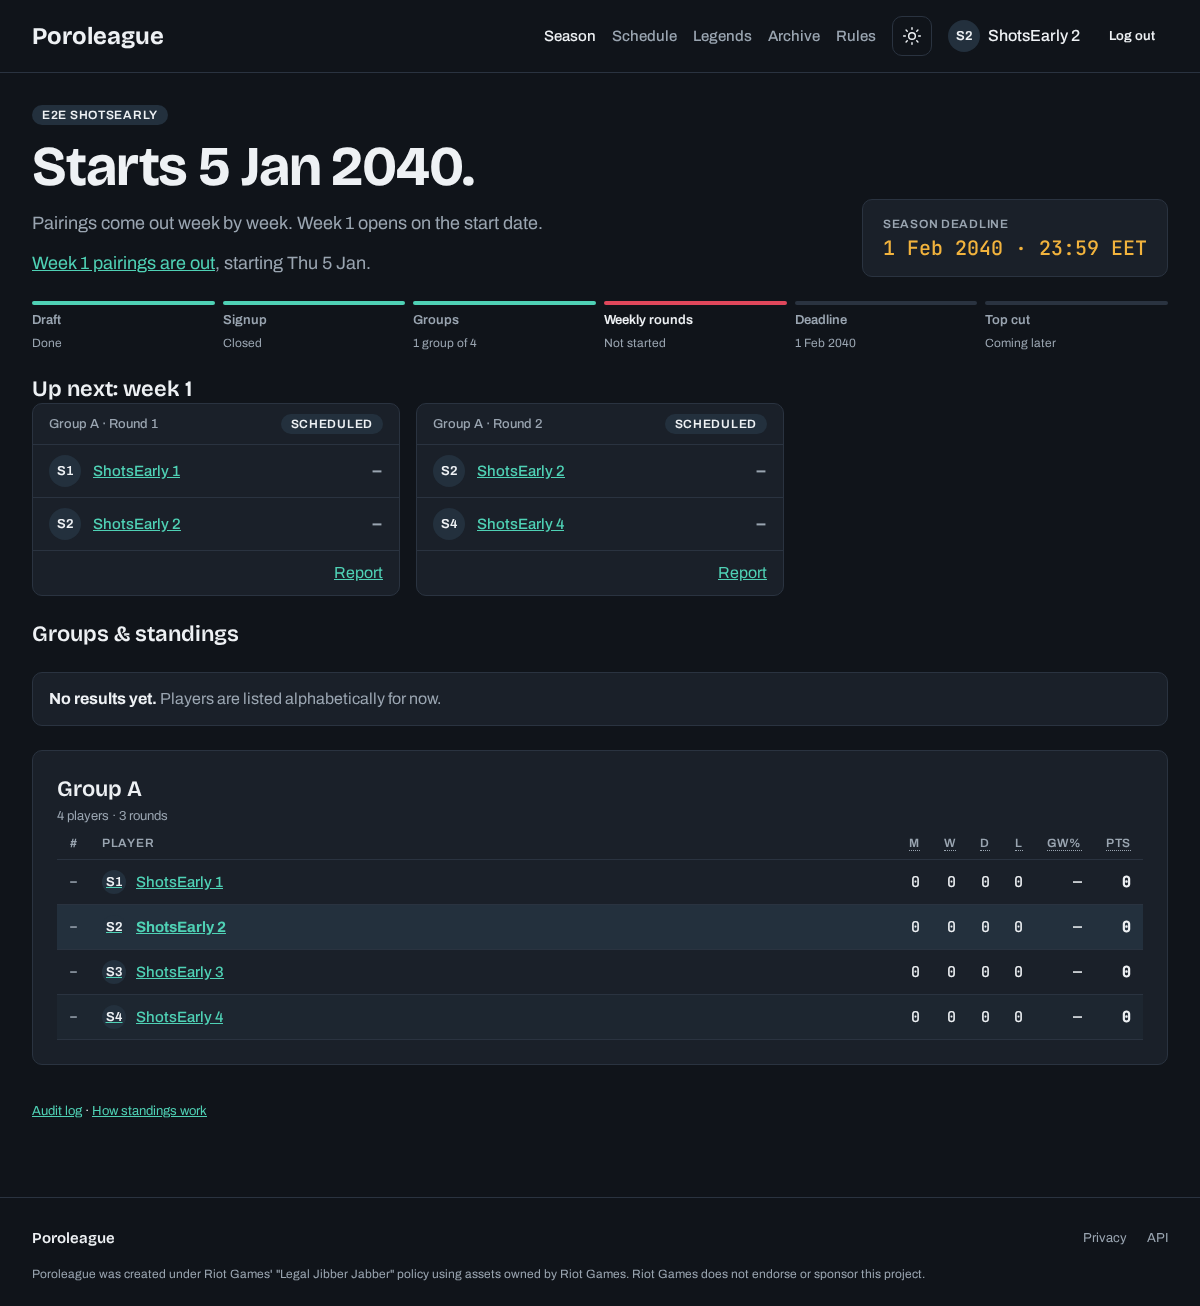
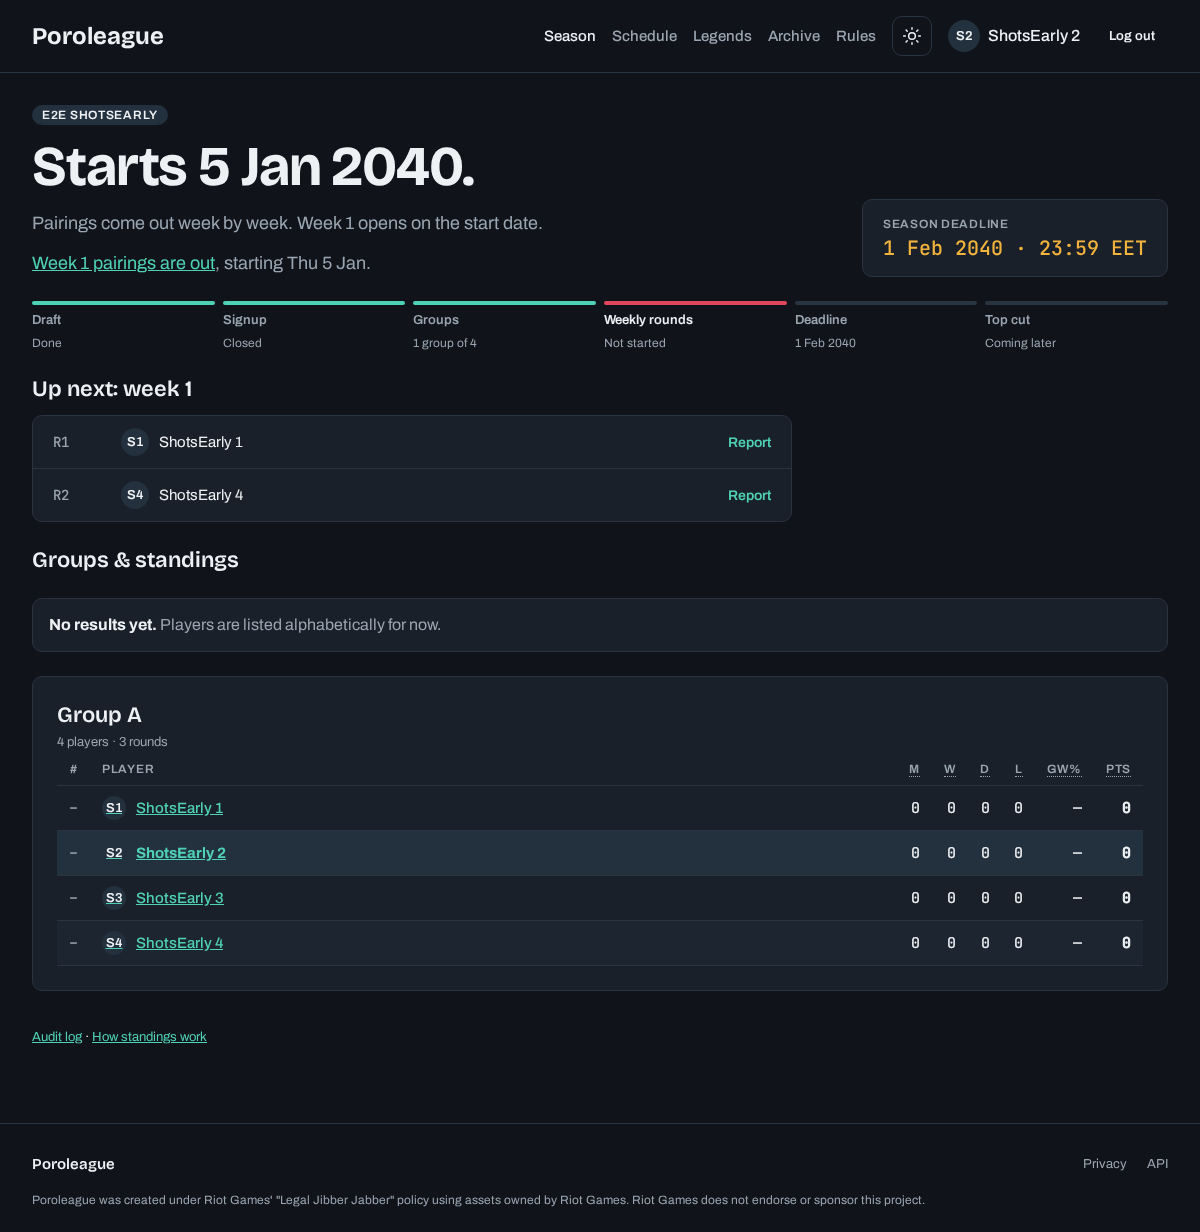
feat(season): match rows on the season page (#228)
## Review guide

~118 reviewable lines (+90/−28), of which ~45 are tests. Plus 6
regenerated images in `.shots/`.

Reading order:
1. `src/lib/league/bracket.ts` + `bracket.spec.ts`: `shortMatchName()`
for the row's round column
2. `src/lib/matchCard.ts` (+ spec): `Card.round` for playoff matches
uses the short name
3. `src/lib/components/MatchRows.svelte`: screen-reader full name for
playoff rounds
4. `src/routes/seasons/[slug]/+page.server.ts`, `+page.svelte`: the
three lists
5. `e2e/early-pairings.spec.ts`, `e2e/top-cut.spec.ts`,
`src/lib/matchRow.spec.ts`

## What

On the season page, "Your matches this week", "Up next: …" and "Your top
cut match" show `MatchRows` perspective rows (no column header) instead
of match-card grids. Hero, phase bar, notices, bye notes, empty states,
signup and standings are unchanged.

## Notes

- Playoff rows show a short round label: `SF 2`, `QF 1`, `Final`, and
`Ro16`/`Ro32` (no slot) for earlier rounds. The full bracket name
("Semifinal 2") would overflow the 52px round column. `Ro16` rather than
`R16` so it can't be read as group round 16. Screen readers get the full
name (`props.head`) instead. This changes `Card.round` for every playoff
card; only `povRow` reads it.
- `early-pairings.spec.ts` gains a regression test for the "as Annie ·
vs Ahri" spacing; the fix itself landed with #225.
- The three match sections are capped at 760px (`.narrow`) with 12px
between heading and list, so "Your page" lines up with the list's right
[…]

diff --git a/src/routes/seasons/[slug]/+page.svelte b/src/routes/seasons/[slug]/+page.svelte
@@ -3,7 +3,7 @@
 	import Avatar from '#lib/components/Avatar.svelte';
 	import ConfirmButton from '#lib/components/ConfirmButton.svelte';
 	import StandingsTable from '#lib/components/StandingsTable.svelte';
-	import MatchCard from '#lib/components/MatchCard.svelte';
+	import MatchRows from '#lib/components/MatchRows.svelte';
 	import PhaseBar from '#lib/components/PhaseBar.svelte';
 	import { date, day, tzName } from '#lib/format.ts';
 	import { groupName, signupInfo, STATUS_LABEL } from '#lib/season.ts';
@@ -17,7 +17,7 @@
 	const AVATARS = 12;
 	const info = $derived(signupInfo(data.entries.length, season));
 	const fresh = $derived(data.groups.every((g) => g.rows.every((r) => !r.played)));
-	// Every match of this week is reported; flagged, void or overdue ones keep the cards showing.
+	// Every match of this week is reported; flagged, void or overdue ones keep the rows showing.
 	const allDone = $derived(
 		!data.pending && data.myWeek.length > 0 && data.myWeek.every((c) => c.status === 'reported')
 	);
@@ -163,9 +163,16 @@
 	{/if}
 
 	{#if data.topCut?.myMatch}
-		<section>
+		<section class="matches narrow">
 			<div class="section-head"><h2>Your top cut match</h2></div>
-			<div class="cards"><MatchCard {...data.topCut.myMatch} /></div>
+			<div class="panel rows">
+				<MatchRows
+					cards={[data.topCut.myMatch]}
+					player={user?.id}
+					label="Your top cut match"
+					header={false}
+				/>
+			</div>
 		</section>
 	{/if}
 
@@ -179,7 +186,7 @@
 	{/if}
 
 	{#if data.signedUp && season.status === 'play' && data.week >= 1}
-		<section aria-labelledby="this-week">
+		<section class="matches narrow" aria-labelledby="this-week">
 			<div class="section-head">
 				<h2 id="this-week">Your matches this week</h2>
 				<a href="/seasons/{season.slug}/players/{user?.id}">Your page</a>
@@ -190,8 +197,13 @@
 					<a href="/seasons/{season.slug}/players/{user?.id}">See your results</a>
 				</div>
 			{:else if data.myWeek.length}
-				<div class="cards">
-					{#each data.myWeek as c (c.id)}<MatchCard {...c.props} />{/each}
+				<div class="panel rows">
+					<MatchRows
+						cards={data.myWeek}
+						player={user?.id}
+						label="Your matches this week"
+						header={false}
+					/>
 				</div>
 			{:else if data.pending}
 				<p class="empty">This week's pairings aren't out yet. Watch the pairings channel.</p>
@@ -203,13 +215,18 @@
 	{/if}
 
 	{#if data.ahead && (data.ahead.matches.length || data.ahead.byes.length)}
-		<section aria-labelledby="up-next">
+		<section class="matches narrow" aria-labelledby="up-next">
 			<div class="section-head">
 				<h2 id="up-next">Up next: {aheadText(data.ahead.weeks)}</h2>
 			</div>
 			{#if data.ahead.matches.length}
-				<div class="cards">
-					{#each data.ahead.matches as c (c.id)}<MatchCard {...c.props} />{/each}
+				<div class="panel rows">
+					<MatchRows
+						cards={data.ahead.matches}
+						player={user?.id}
+						label="Up next: {aheadText(data.ahead.weeks)}"
+						header={false}
+					/>
 				</div>
 			{/if}
 			{#if data.ahead.byes.length}{@render byeNote(data.ahead.byes)}{/if}
@@ -465,6 +482,15 @@
 	}
 	.section-head h2 {
 		margin: 0;
+	}
+	.matches {
+		display: flex;
+		flex-direction: column;
+		gap: 12px;
+	}
+	.rows {
+		padding: 0;
+		overflow: hidden;
 	}
 	.stat {
 		display: none;

diff --git a/e2e/early-pairings.spec.ts b/e2e/early-pairings.spec.ts
@@ -1,7 +1,7 @@
 // Pairings published before their week starts show up right away, without moving the calendar week.
 import { expect, test } from '@playwright/test';
-import { removeMatch, removeSeason, seedSeason } from './db.ts';
-import { SEASONS, as, player } from './fixtures.ts';
+import { removeMatch, removeSeason, seedResult, seedSeason } from './db.ts';
+import { SEASONS, as, player, playerName } from './fixtures.ts';
 
 const s = `/seasons/${SEASONS.early}`;
 const day = (offset: number) =>
@@ -18,12 +18,16 @@ test.describe('as a player', () => {
 	test('sees next week beside this week, on both pages', async ({ page }) => {
 		midSeason();
 		await page.goto(s);
-		const thisWeek = page.getByRole('region', { name: 'Your matches this week' });
-		await expect(thisWeek.getByText('Round 1')).toBeVisible();
-		await expect(thisWeek.getByText('Round 3')).toHaveCount(0);
-		const next = page.getByRole('region', { name: 'Up next: week 2' });
-		await expect(next.getByText('Round 3')).toBeVisible();
-		await expect(next.getByText('Round 1')).toHaveCount(0);
+		const thisWeek = page.getByRole('list', { name: 'Your matches this week' });
+		await expect(thisWeek.getByRole('link', { name: /^Round 1 / })).toBeVisible();
+		await expect(thisWeek.getByRole('link', { name: /^Round 3 / })).toHaveCount(0);
+		const next = page.getByRole('list', { name: 'Up next: week 2' });
+		const row = next.getByRole('link', { name: /^Round 3 / });
+		await expect(row).toContainText('R3');
+		await expect(row).toContainText(playerName('early', 3));
+		await expect(row).toContainText('Report');
+		await expect(row).toHaveAttribute('href', /\/matches\/\d+$/);
+		await expect(next.getByRole('link', { name: /^Round 1 / })).toHaveCount(0);
 
 		await page.goto(`${s}/players/${player('early', 2)}`);
 		const upNext = page.getByRole('region', { name: 'Who you play next' });
@@ -31,11 +35,22 @@ test.describe('as a player', () => {
 		await expect(upNext.getByText('Round 3')).toBeVisible();
 	});
 
+	test('sees a played match as a result row', async ({ page }) => {
+		seedResult(midSeason()[0], 2, 1); // Early 1 beat Early 2, Ahri vs Annie
+		await page.setViewportSize({ width: 390, height: 844 });
+		await page.goto(s);
+		const row = page
+			.getByRole('list', { name: 'Your matches this week' })
+			.getByRole('link', { name: /^Round 1 / });
+		await expect(row).toContainText('1–2');
+		await expect(row).toContainText('as Annie · vs Ahri');
+	});
+
 	test('sees week 1 before the season starts', async ({ page }) => {
 		seedSeason('early', { publishedRound: 2, startDate: day(3), deadline: day(30) });
 		await page.goto(s);
 		await expect(
-			page.getByRole('region', { name: 'Up next: week 1' }).getByText('Round 1')
+			page.getByRole('list', { name: 'Up next: week 1' }).getByRole('link', { name: /^Round 1 / })
 		).toBeVisible();
 		await expect(page.getByText('No matches for you this week.')).toHaveCount(0);
 	});

diff --git a/src/lib/matchCard.ts b/src/lib/matchCard.ts
@@ -3,7 +3,7 @@ import { droppedIds, isOverdue, isVoid } from '#lib/league/status.ts';
 import type { WeekMap } from '#lib/league/holiday.ts';
 import { isPublished } from '#lib/league/publish.ts';
 import { currentWeek, reportingClosed, weekOf } from '#lib/league/time.ts';
-import { matchName } from '#lib/league/bracket.ts';
+import { matchName, shortMatchName } from '#lib/league/bracket.ts';
 import { groupName } from '#lib/season.ts';
 
 export type CardMatch = {
@@ -136,8 +136,8 @@ export function matchCard(m: CardMatch, c: CardContext) {
 		ids: [m.p1Id, m.p2Id] as [string, string],
 		// Which side the viewer is, for the "You" tag.
 		you: (m.p1Id === c.viewerId ? 0 : m.p2Id === c.viewerId ? 1 : null) as 0 | 1 | null,
-		// Group rounds are numbers ("R6"); a playoff match carries its bracket name.
-		round: m.stage === 'playoff' ? matchName(m.round, m.slot ?? 0, c.cutRounds) : m.round,
+		// Group rounds are numbers ("R6"); a playoff match carries its short bracket name ("SF 2").
+		round: m.stage === 'playoff' ? shortMatchName(m.round, m.slot ?? 0, c.cutRounds) : m.round,
 		week,
 		early,
 		walkover,

diff --git a/src/routes/seasons/[slug]/+page.server.ts b/src/routes/seasons/[slug]/+page.server.ts
@@ -26,7 +26,7 @@ export const load: PageServerLoad = async (event) => {
 	const scheduled = hasSchedule(season.status);
 	const groups = scheduled ? groupStandings(season, list) : [];
 	const me = list.find((e) => e.playerId === locals.user?.id);
-	// Only a signed-up player gets match cards here, so only they need the holidays read.
+	// Only a signed-up player gets match rows here, so only they need the holidays read.
 	const marks = me && scheduled ? seasonUnlocks(season) : null;
 	const ctx = {
 		...cardContext(season, list, locals.user?.id ?? null),
@@ -76,7 +76,7 @@ export const load: PageServerLoad = async (event) => {
 						? matchCard(
 								myCut.match,
 								cardContext(season, list, viewer, new Date(), cut.rounds.length)
-							).props
+							)
 						: null
 				}
 			: null,

diff --git a/src/lib/league/bracket.ts b/src/lib/league/bracket.ts
@@ -129,6 +129,14 @@ export function matchName(round: number, slot: number, rounds: number) {
 	return `Round of ${n} · ${slot + 1}`;
 }
 
+// Fits a match row's round column. "Ro16", never "R16": that reads as group round 16.
+export function shortMatchName(round: number, slot: number, rounds: number) {
+	const n = left(round, rounds);
+	if (n === 2) return 'Final';
+	if (n === 4 || n === 8) return `${n === 4 ? 'SF' : 'QF'} ${slot + 1}`;
+	return `Ro${n}`;
+}
+
 // "A1" = 1st in Group A. Seeds run A1, B1, …, A2, B2, … so the place is the seed's tier.
 export const seedLabel = (seed: number, groups: number) =>
 	`${String.fromCharCode(65 + ((seed - 1) % groups))}${Math.ceil(seed / groups)}`;

diff --git a/e2e/top-cut.spec.ts b/e2e/top-cut.spec.ts
@@ -43,6 +43,12 @@ test('top cut from setup to champion', async ({ browser }) => {
 	// Player 1 reports their semifinal against Player 5 from the bracket.
 	const p1 = await browser.newPage(as(player('topCut', 1)));
 	await p1.goto(`/seasons/${slug}`);
+	const myCut = p1
+		.getByRole('list', { name: 'Your top cut match' })
+		.getByRole('link', { name: /^Semifinal 1 / });
+	await expect(myCut).toContainText('SF 1');
+	await expect(myCut).toContainText(playerName('topCut', 5));
+	await expect(myCut).toContainText('Report');
 	await mainNav(p1).getByRole('link', { name: 'Top cut' }).click();
 	await expect(p1.getByRole('heading', { name: 'Semifinals are up.' })).toBeVisible();
 	await p1

diff --git a/src/lib/league/bracket.spec.ts b/src/lib/league/bracket.spec.ts
@@ -6,6 +6,7 @@ import {
 	drawBracket,
 	MAX_CUT,
 	matchName,
+	shortMatchName,
 	roundName,
 	seedLabel,
 	seedOrder,
@@ -113,6 +114,10 @@ describe('names', () => {
 		expect(matchName(2, 1, 4)).toBe('Quarterfinal 2');
 		expect(matchName(1, 2, 4)).toBe('Round of 16 · 3');
 		expect(matchName(4, 0, 4)).toBe('Final');
+	});
+	it('shortens match names for a row', () => {
+		expect([shortMatchName(1, 2, 4), shortMatchName(2, 1, 4)]).toEqual(['Ro16', 'QF 2']);
+		expect([shortMatchName(3, 0, 4), shortMatchName(4, 0, 4)]).toEqual(['SF 1', 'Final']);
 	});
 	it('labels seeds by group and place', () => {
 		expect([1, 2, 3, 4].map((s) => seedLabel(s, 2))).toEqual(['A1', 'B1', 'A2', 'B2']);

diff --git a/src/lib/matchRow.spec.ts b/src/lib/matchRow.spec.ts
@@ -196,9 +196,9 @@ describe('povRow', () => {
 		expect([r.text, r.void, r.score, r.legend]).toEqual(['Void', true, null, null]);
 	});
 
-	it('playoff match keeps its bracket name as the round', () => {
+	it('playoff match carries its short bracket name as the round', () => {
 		const c = cardContext({ ...season, status: 'topcut' }, people, null, NOW, 3);
-		expect(povRow(card(playoff, c), 'p2')).toMatchObject({ round: 'Semifinal 2', text: null });
+		expect(povRow(card(playoff, c), 'p2')).toMatchObject({ round: 'SF 2', text: null });
 		expect(povRow(card({ ...playoff, walkoverId: 'p2' }, c), 'p1').text).toBe('Walkover');
 	});
 

diff --git a/src/lib/matchCard.spec.ts b/src/lib/matchCard.spec.ts
@@ -170,7 +170,7 @@ describe('playoff cards', () => {
 		expect(card.props.link.label).toBe('Report');
 		const wo = matchCard({ ...base, walkoverId: 'p2' }, ctx);
 		expect(wo.props.note).toBe('Walkover · p2 advances');
-		expect([card.round, card.you, card.early]).toEqual(['Semifinal 2', 0, false]);
+		expect([card.round, card.you, card.early]).toEqual(['SF 2', 0, false]);
 		expect(wo.walkover).toBe('p2');
 		expect(wo.props.link.label).toBe('View');
 	});

diff --git a/src/lib/components/MatchRows.svelte b/src/lib/components/MatchRows.svelte
@@ -92,7 +92,9 @@
 						<span class="pb-mrow-rd">
 							{#if typeof r.round === 'number'}
 								<span aria-hidden="true">R{r.round}</span><span class="pb-sr">Round {r.round}</span>
-							{:else}{r.round}{/if}
+							{:else}<span aria-hidden="true">{r.round}</span><span class="pb-sr"
+									>{c.props.head}</span
+								>{/if}
 						</span>
 						<span class={['pb-mrow-opp', r.opponent.former && 'is-former']}>
 							<Avatar
